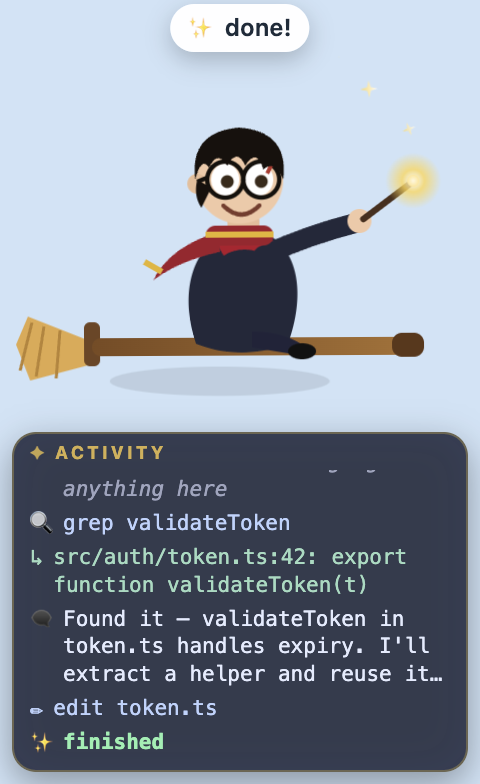
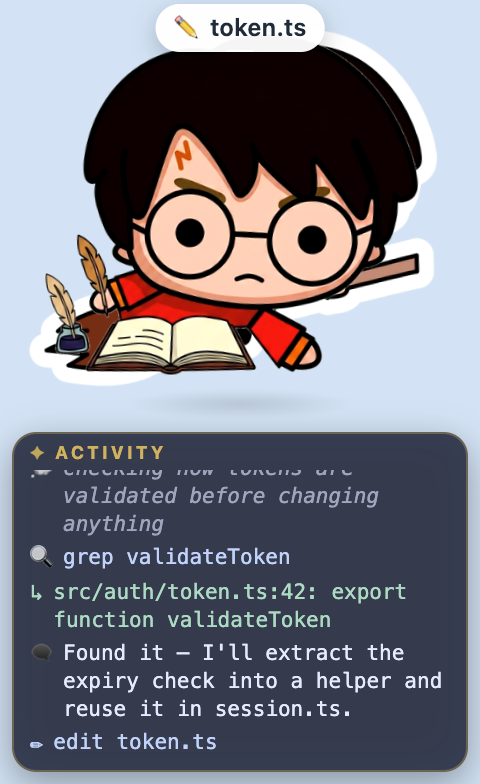
Use custom per-mode artwork (thinking / working / sleeping)
- thinking: hand-on-chin, eyes up, thought bubble (book + snitch)
- working: focused, reading a book with quill & ink
- sleeping: eyes closed with Hedwig + zzz
- Cut out white backgrounds, aligned each to the base sprite footprint
- Drop now-redundant overlays where the art carries them (sleeping zzz,
  thinking bubble, working speed-lines/glow) and remove the floating prop
- Refresh README screenshots (assets/modes.png, assets/relay.png)

diff --git a/app/renderer/style.css b/app/renderer/style.css
@@ -87,7 +87,7 @@ body.dragging, body.dragging * { cursor: grabbing !important; }
 .state-sleeping .sprite {
   background: url("sprite-sleeping.png") center / contain no-repeat,
               url("sprite.png") center / contain no-repeat;
-  filter: saturate(0.6) brightness(0.78) hue-rotate(-8deg) blur(0.4px);
+  filter: saturate(0.92) brightness(0.93);
 }
 .state-happy .sprite { filter: saturate(1.25) brightness(1.06); }
 .state-error .sprite { filter: saturate(1.1) brightness(0.98) hue-rotate(-25deg); }
@@ -201,6 +201,7 @@ body.dragging, body.dragging * { cursor: grabbing !important; }
   font-size: 20px; opacity: 0; z-index: 4;
   filter: drop-shadow(0 2px 2px rgba(0,0,0,.3));
   transition: opacity .2s ease;
+  display: none;   /* the per-mode artwork carries its own props now */
 }
 .prop.show { opacity: 1; animation: propBob 1.6s ease-in-out infinite; }
 
@@ -214,9 +215,8 @@ body.dragging, body.dragging * { cursor: grabbing !important; }
 
 /* working — lean into flight, speed lines, broom aglow */
 .state-working #fly { animation: zoom .5s ease-in-out infinite; }
-.state-working .speedlines { opacity: 1; }
-.state-working .spellglow { opacity: .7; }
-.state-working .prop { opacity: 1; }
+/* the working artwork carries its own props (book/quill), so we skip the
+   flying-cast overlays (speed-lines / broom glow / floating prop) here */
 
 /* waiting — expectant hover */
 .state-waiting #fly { animation: fly 1.4s ease-in-out infinite; }
@@ -232,7 +232,7 @@ body.dragging, body.dragging * { cursor: grabbing !important; }
 
 /* sleeping — slow snooze + zzz */
 .state-sleeping #fly { animation: snooze 3.6s ease-in-out infinite; }
-.state-sleeping .zzz { display: block; }
+/* the sleeping artwork already has its own zzz, so we skip the overlay one */
 
 /* =====================================================================
    PER-TOOL  (spell colour tints the sparkles + broom glow; prop set in JS)

diff --git a/app/renderer/pet.js b/app/renderer/pet.js
@@ -31,12 +31,12 @@ const TOOL_LOOK = {
 const ALL_TOOL_CLASSES = Object.keys(TOOL_LOOK).map((t) => "tool-" + t);
 
 const STATE_LOOK = {
-  thinking: ["\uD83D\uDCAD", "hmm\u2026"],
+  thinking: [null, ""],
   working:  ["\uD83E\uDE84", "casting"],
   waiting:  ["\u2753", "your call?"],
   happy:    ["\u2728", "done!"],
   error:    ["\uD83D\uDCA5", "uh oh"],
-  sleeping: ["\uD83D\uDCA4", ""],
+  sleeping: [null, ""],
   idle:     [null, ""],
 };
 
